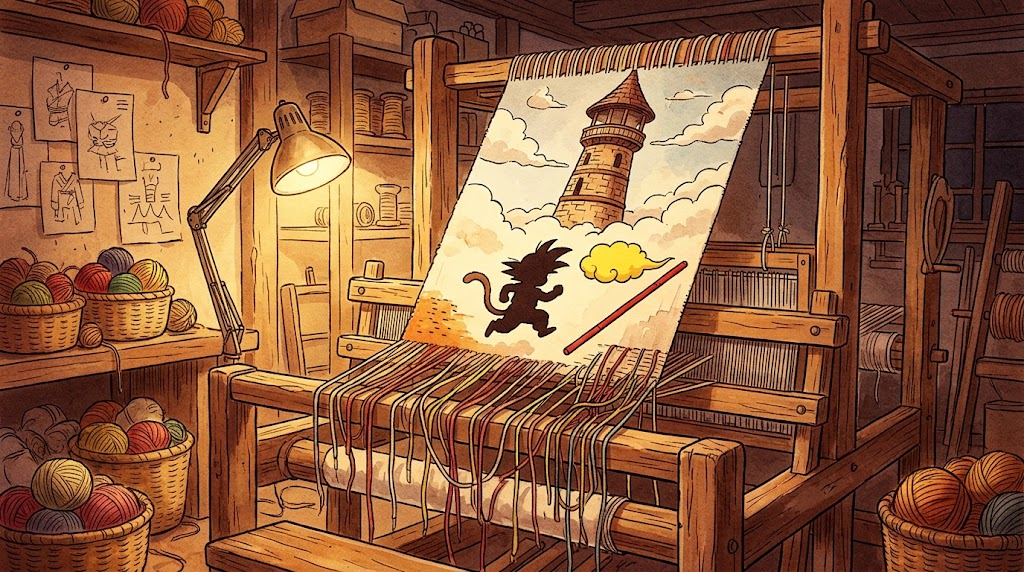
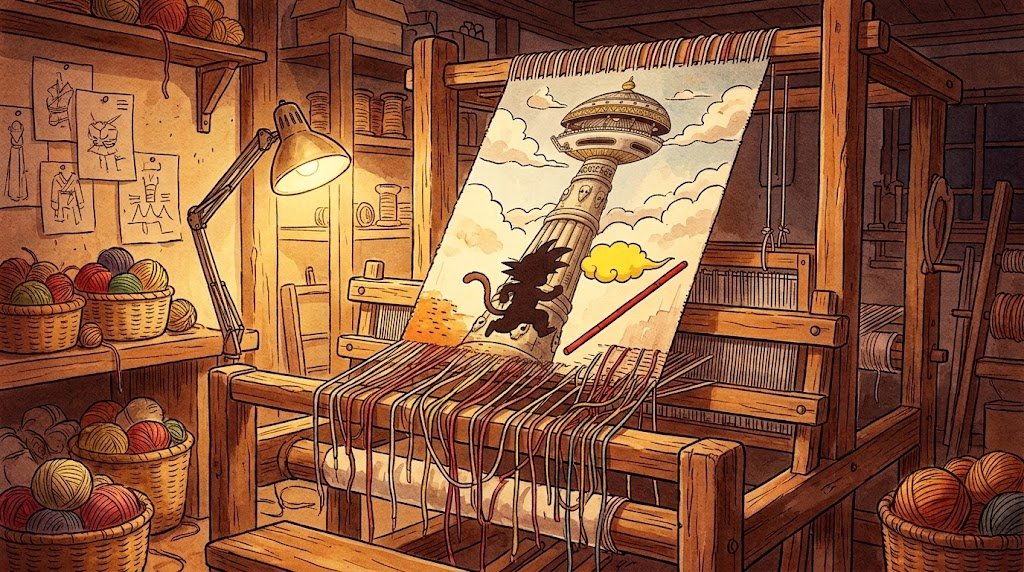
Article retcon : nouvelle version de l'illustration d'ouverture (tour Karin)
Claude-Session: https://claude.ai/code/session_016x1HYRKGnfB5B6rxug79Yu

Changed region(s): [[0.4375, 0.1189, 0.6562, 0.6538], [0.5625, 0.6538, 0.5938, 0.6836]]

diff --git a/article-retcon.html b/article-retcon.html
@@ -273,7 +273,7 @@ ul.arrow li::before{content:'→';position:absolute;left:0;color:var(--goldb);fo
   <h1>Qu'est-ce qu'un retcon ?</h1>
   <p class="subtitle">Dragon Ball et l'art de construire un univers en marchant</p>
 
-  <img class="img-full" src="images/illu-ouverture-tisserand.jpg" alt="Un métier à tisser dans un atelier : la tapisserie montre la tour Karin, le petit Goku à queue de singe, le Kinto'un et le Nyoibō, et les fils pendent encore, inachevés." style="margin:8px 0 30px">
+  <img class="img-full" src="images/illu-ouverture-tisserand.jpg?v=2" alt="Un métier à tisser dans un atelier : la tapisserie montre la tour Karin, le petit Goku à queue de singe, le Kinto'un et le Nyoibō, et les fils pendent encore, inachevés." style="margin:8px 0 30px">
 
   <p class="lead">Il y a deux façons de lire Dragon Ball. La première ne voit qu'un plan. La seconde voit le tisserand au travail.</p>
 
